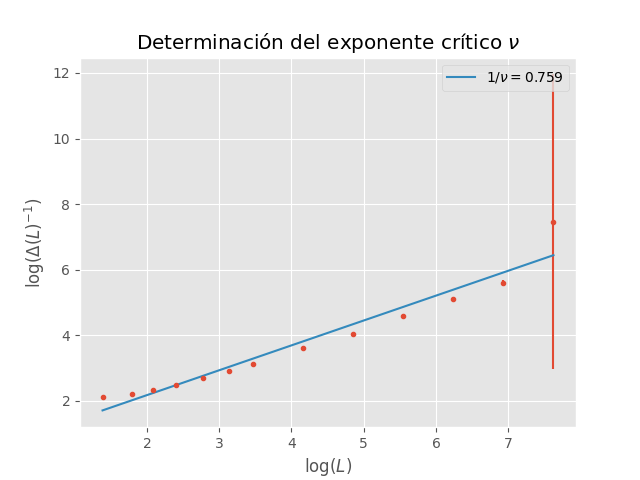
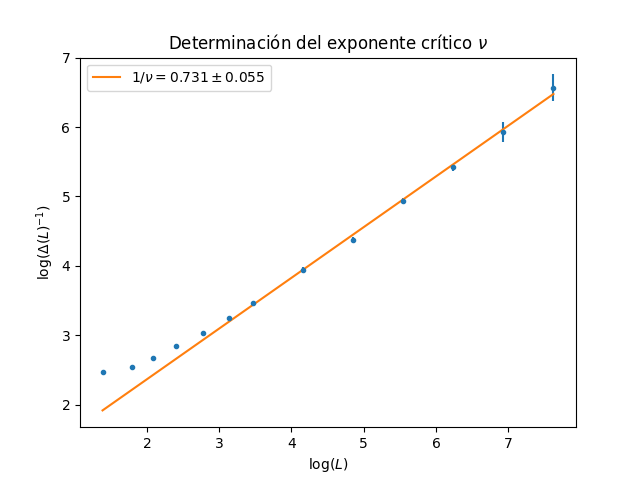
Add some analysis

diff --git a/analysis.py b/analysis.py
@@ -51,7 +51,7 @@ def get_pi_curve(data):
 
 
 def graph_probabilities_vs_densities(data, save=False, filename="graph.png"):
-    # plt.figure(figsize=(15, 8))
+    plt.figure(figsize=(15, 8))
 
     for size in sorted(data):
 
@@ -120,30 +120,29 @@ def linear_fit_error(
     intercepts = np.zeros(number_of_samples, dtype=float)
 
     if not x_err:
-        for i in number_of_samples:
-            y_samples = rng.normal(y, y_err / error_factor)
+        for i in range(number_of_samples):
+            y_samples = rng.normal(y, y_err)
             lin_model = np.polyfit(x, y_samples, 1)
             slopes[i] = lin_model[0]
             intercepts[i] = lin_model[1]
 
     elif not y_err:
-        for i in number_of_samples:
-            x_samples = rng.normal(x, x_err / error_factor)
+        for i in range(number_of_samples):
+            x_samples = rng.normal(x, x_err)
             lin_model = np.polyfit(x_samples, y, 1)
             slopes[i] = lin_model[0]
             intercepts[i] = lin_model[1]
 
     else:
-        for i in number_of_samples:
-            x_samples = rng.normal(x, x_err / error_factor)
-            y_samples = rng.normal(y, y_err / error_factor)
+        for i in range(number_of_samples):
+            x_samples = rng.normal(x, x_err)
+            y_samples = rng.normal(y, y_err)
             lin_model = np.polyfit(x_samples, y_samples, 1)
             slopes[i] = lin_model[0]
             intercepts[i] = lin_model[1]
 
     return (
-        slopes.mean(),
-        intercepts.mean(),
+        [slopes.mean(), intercepts.mean()],
         1.96 * slopes.std(),
         1.96 * intercepts.std(),
     )
@@ -170,52 +169,71 @@ if __name__ == "__main__":
     log_l = [np.log(size) for size in new_data]
     log_delta = [np.log(1 / new_data[size]["delta"]) for size in new_data]
     log_err = [
-        -1 * new_data[size]["delta_err"] / new_data[size]["delta"] for size in new_data
+        np.abs(-1 * new_data[size]["delta_err"] / new_data[size]["delta"])
+        for size in new_data
     ]
 
-    linear_model = np.polyfit(log_l[7:], log_delta[7:], 1)
+    linear_model, slope_err, intercept_err = linear_fit_error(
+        log_l[5:], log_delta[5:], y_err=log_err[5:]
+    )
     lin_func = np.poly1d(linear_model)
 
+    print(slope_err, intercept_err)
+
     plt.errorbar(log_l, log_delta, yerr=log_err, linestyle="none", marker=".")
-    plt.plot(log_l, lin_func(log_l), label=rf"$1 / \nu= {linear_model[0].round(3)}$")
+    plt.plot(
+        log_l,
+        lin_func(log_l),
+        label=rf"$1 / \nu= {linear_model[0].round(3)} \pm {slope_err.round(3)}$",
+    )
     plt.title(r"Determinación del exponente crítico $\nu$")
     plt.xlabel(r"$\log (L)$")
     plt.ylabel(r"$\log ( \Delta(L)^{-1})$")
     plt.legend()
-    plt.show()
-    # plt.savefig("images/nu_determination.png")
+    # plt.show()
+    plt.savefig("images/nu_determination.png")
 
     delta = [new_data[size]["delta"] for size in new_data]
     avg = [new_data[size]["avg"] for size in new_data]
     delta_err = [new_data[size]["delta_err"] for size in new_data]
     avg_err = [new_data[size]["avg_err"] for size in new_data]
 
-    linear_model = np.polyfit(delta[7:], avg[7:], 1)
+    linear_model, slope_err, intercept_err = linear_fit_error(
+        delta[4:], avg[4:], x_err=delta_err[4:], y_err=avg_err[4:]
+    )
     lin_func = np.poly1d(linear_model)
+
+    print(slope_err, intercept_err)
 
     plt.close()
     plt.errorbar(delta, avg, xerr=delta_err, yerr=avg_err, linestyle="none", marker=".")
     plt.plot(
-        delta, lin_func(delta), label=rf"$ p_{{crit}} = {linear_model[1].round(4)}$"
+        delta,
+        lin_func(delta),
+        label=rf"$ p_{{crit}} = {linear_model[1].round(4)} \pm {intercept_err.round(4)}$",
     )
     plt.title("Determinación del punto crítico")
     plt.xlabel(r"$\Delta (L)$")
     plt.ylabel(r"$p_{avg}(L)$")
     plt.legend()
-    plt.show()
-    # plt.savefig("images/_crit_density_determination.png")
+    # plt.show()
+    plt.savefig("images/crit_density_determination.png")
 
-    # graph_probabilities_vs_densities(data, True, "images/prob_density.png")
-    graph_probabilities_vs_densities(data)
+    graph_probabilities_vs_densities(data, True, "images/prob_density.png")
+    # graph_probabilities_vs_densities(data)
 
     log_l = [np.log(size) for size in new_data]
     log_avg = [np.log(1 / new_data[size]["avg"]) for size in new_data]
     log_err = [
-        -1 * new_data[size]["avg_err"] / new_data[size]["avg"] for size in new_data
+        np.abs(-1 * new_data[size]["avg_err"] / new_data[size]["avg"])
+        for size in new_data
     ]
 
-    linear_model = np.polyfit(log_l[5:], log_avg[5:], 1)
+    linear_model, slope_err, intercept_err = linear_fit_error(
+        log_l[:], log_avg[:], y_err=log_err[:]
+    )
     lin_func = np.poly1d(linear_model)
+    print(slope_err, intercept_err)
 
     plt.errorbar(log_l, log_avg, yerr=log_err, linestyle="none", marker=".")
     plt.plot(log_l, lin_func(log_l), label=rf"$\beta /\nu= {linear_model[0].round(3)}$")
@@ -223,7 +241,7 @@ if __name__ == "__main__":
     plt.xlabel(r"$\log (L)$")
     plt.ylabel(r"$\log ( p_{avg}^{-1})$")
     plt.legend()
-    plt.show()
+    # plt.show()
 
     plt.close()
 

diff --git a/simulation.py b/simulation.py
@@ -11,23 +11,33 @@ def has_percolating_cluster(lattice: np.array) -> bool:
 
     clusters = label_cluster(lattice)
 
-    # Check first and last row
+    # # Check first and last row
     row_start = clusters[0]
     row_end = clusters[-1]
-    vertical_cluster = (
-        np.isin(row_start[np.nonzero(row_start)], row_end[np.nonzero(row_end)]).sum()
-        > 0
-    )
+    # vertical_cluster = (
+    #     np.isin(row_start[np.nonzero(row_start)], row_end[np.nonzero(row_end)]).sum()
+    #     > 0
+    # )
 
-    # Check first and last column
+    # # Check first and last column
     col_start = clusters[:, 0]
     col_end = clusters[:, -1]
-    horizontal_cluster = (
-        np.isin(col_start[np.nonzero(col_start)], col_end[np.nonzero(col_end)]).sum()
-        > 0
+    # horizontal_cluster = (
+    #     np.isin(col_start[np.nonzero(col_start)], col_end[np.nonzero(col_end)]).sum()
+    #     > 0
+    # )
+
+    center = clusters[int(len(col_start) / 2), int(len(row_start) / 2)]
+    print(center)
+
+    return (
+        center in row_start
+        or center in row_end
+        or center in col_start
+        or center in col_end
     )
 
-    return vertical_cluster and horizontal_cluster
+    # return vertical_cluster and horizontal_cluster
 
 
 def percolation_density(sequence: np.array, borders: bool = True) -> int:

diff --git a/data_per_size.py b/data_per_size.py
@@ -31,12 +31,13 @@ def get_densities(size, borders=True):
 
 
 if __name__ == "__main__":
-    sizes = [16, 36, 64, 121, 256, 529]
+    sizes = [36, 64, 121, 256, 529]
     borders = True
 
     for size in sizes:
         densities = get_densities(size, borders)
         np.savetxt(
-            f"data/jigsaw{'_borders' if borders else ''}/size{int(np.sqrt(size)) - 2 * (not borders)}.txt",
+            # f"data/jigsaw{'_borders' if borders else ''}/size{int(np.sqrt(size)) - 2 * (not borders)}.txt",
+            f"data/jigsaw_center/size{int(np.sqrt(size))}.txt",
             densities,
         )
